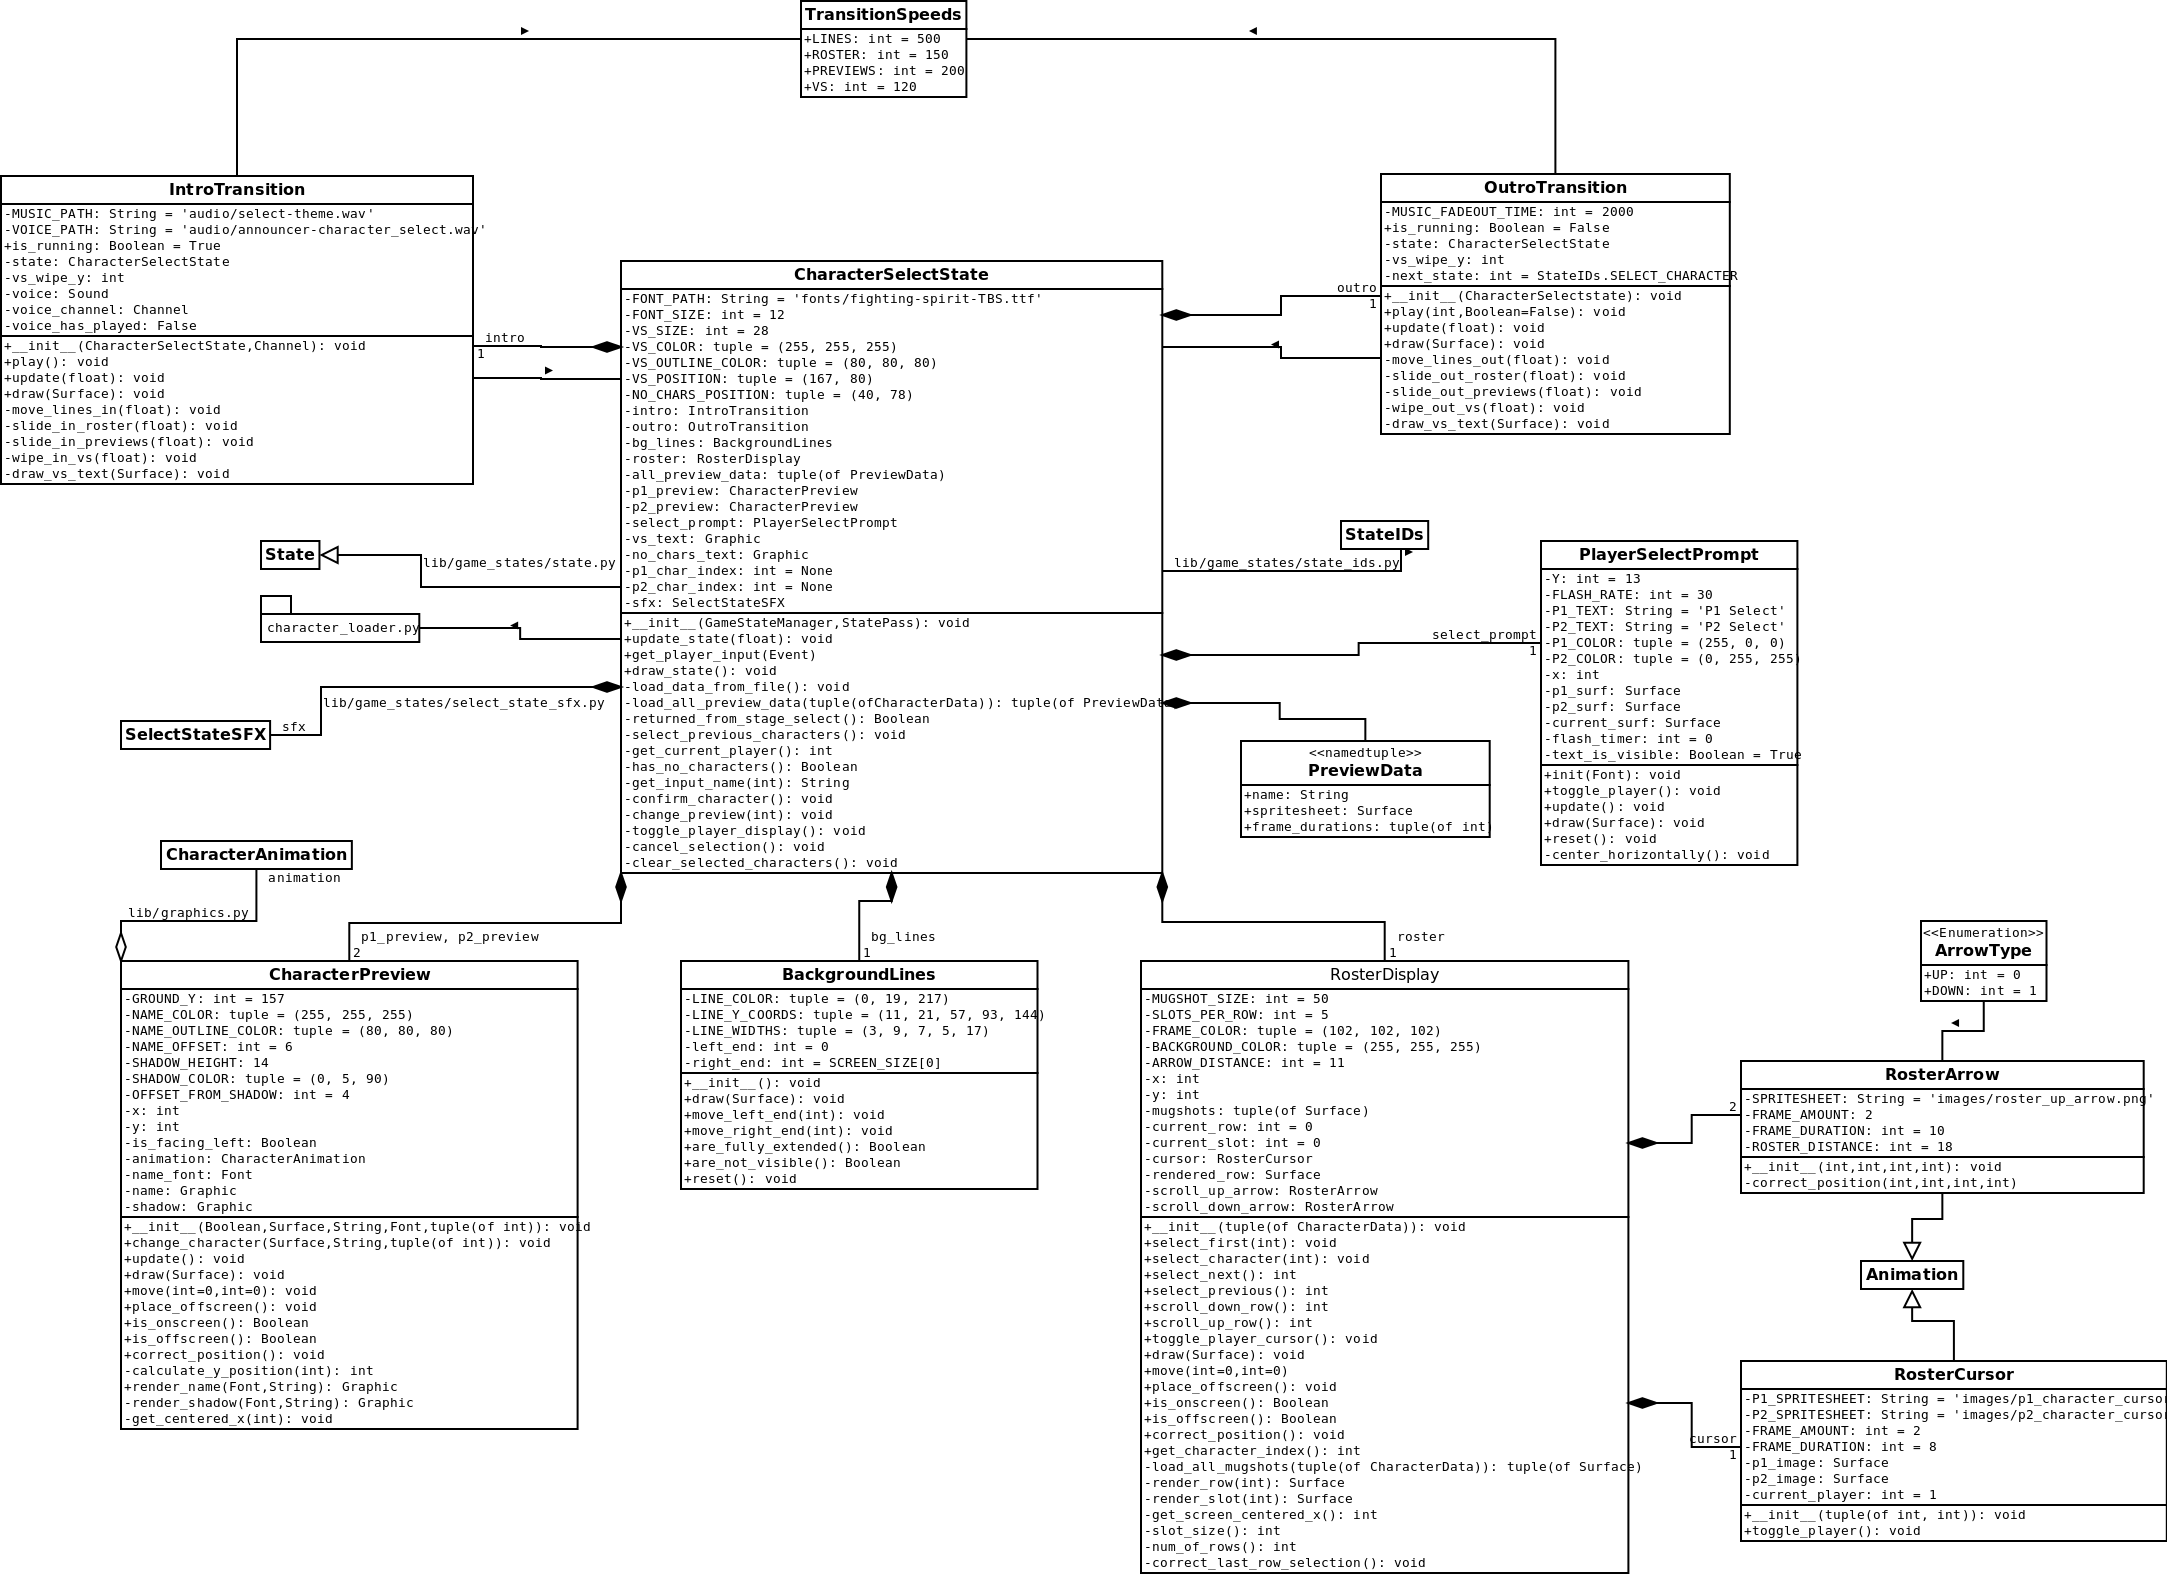
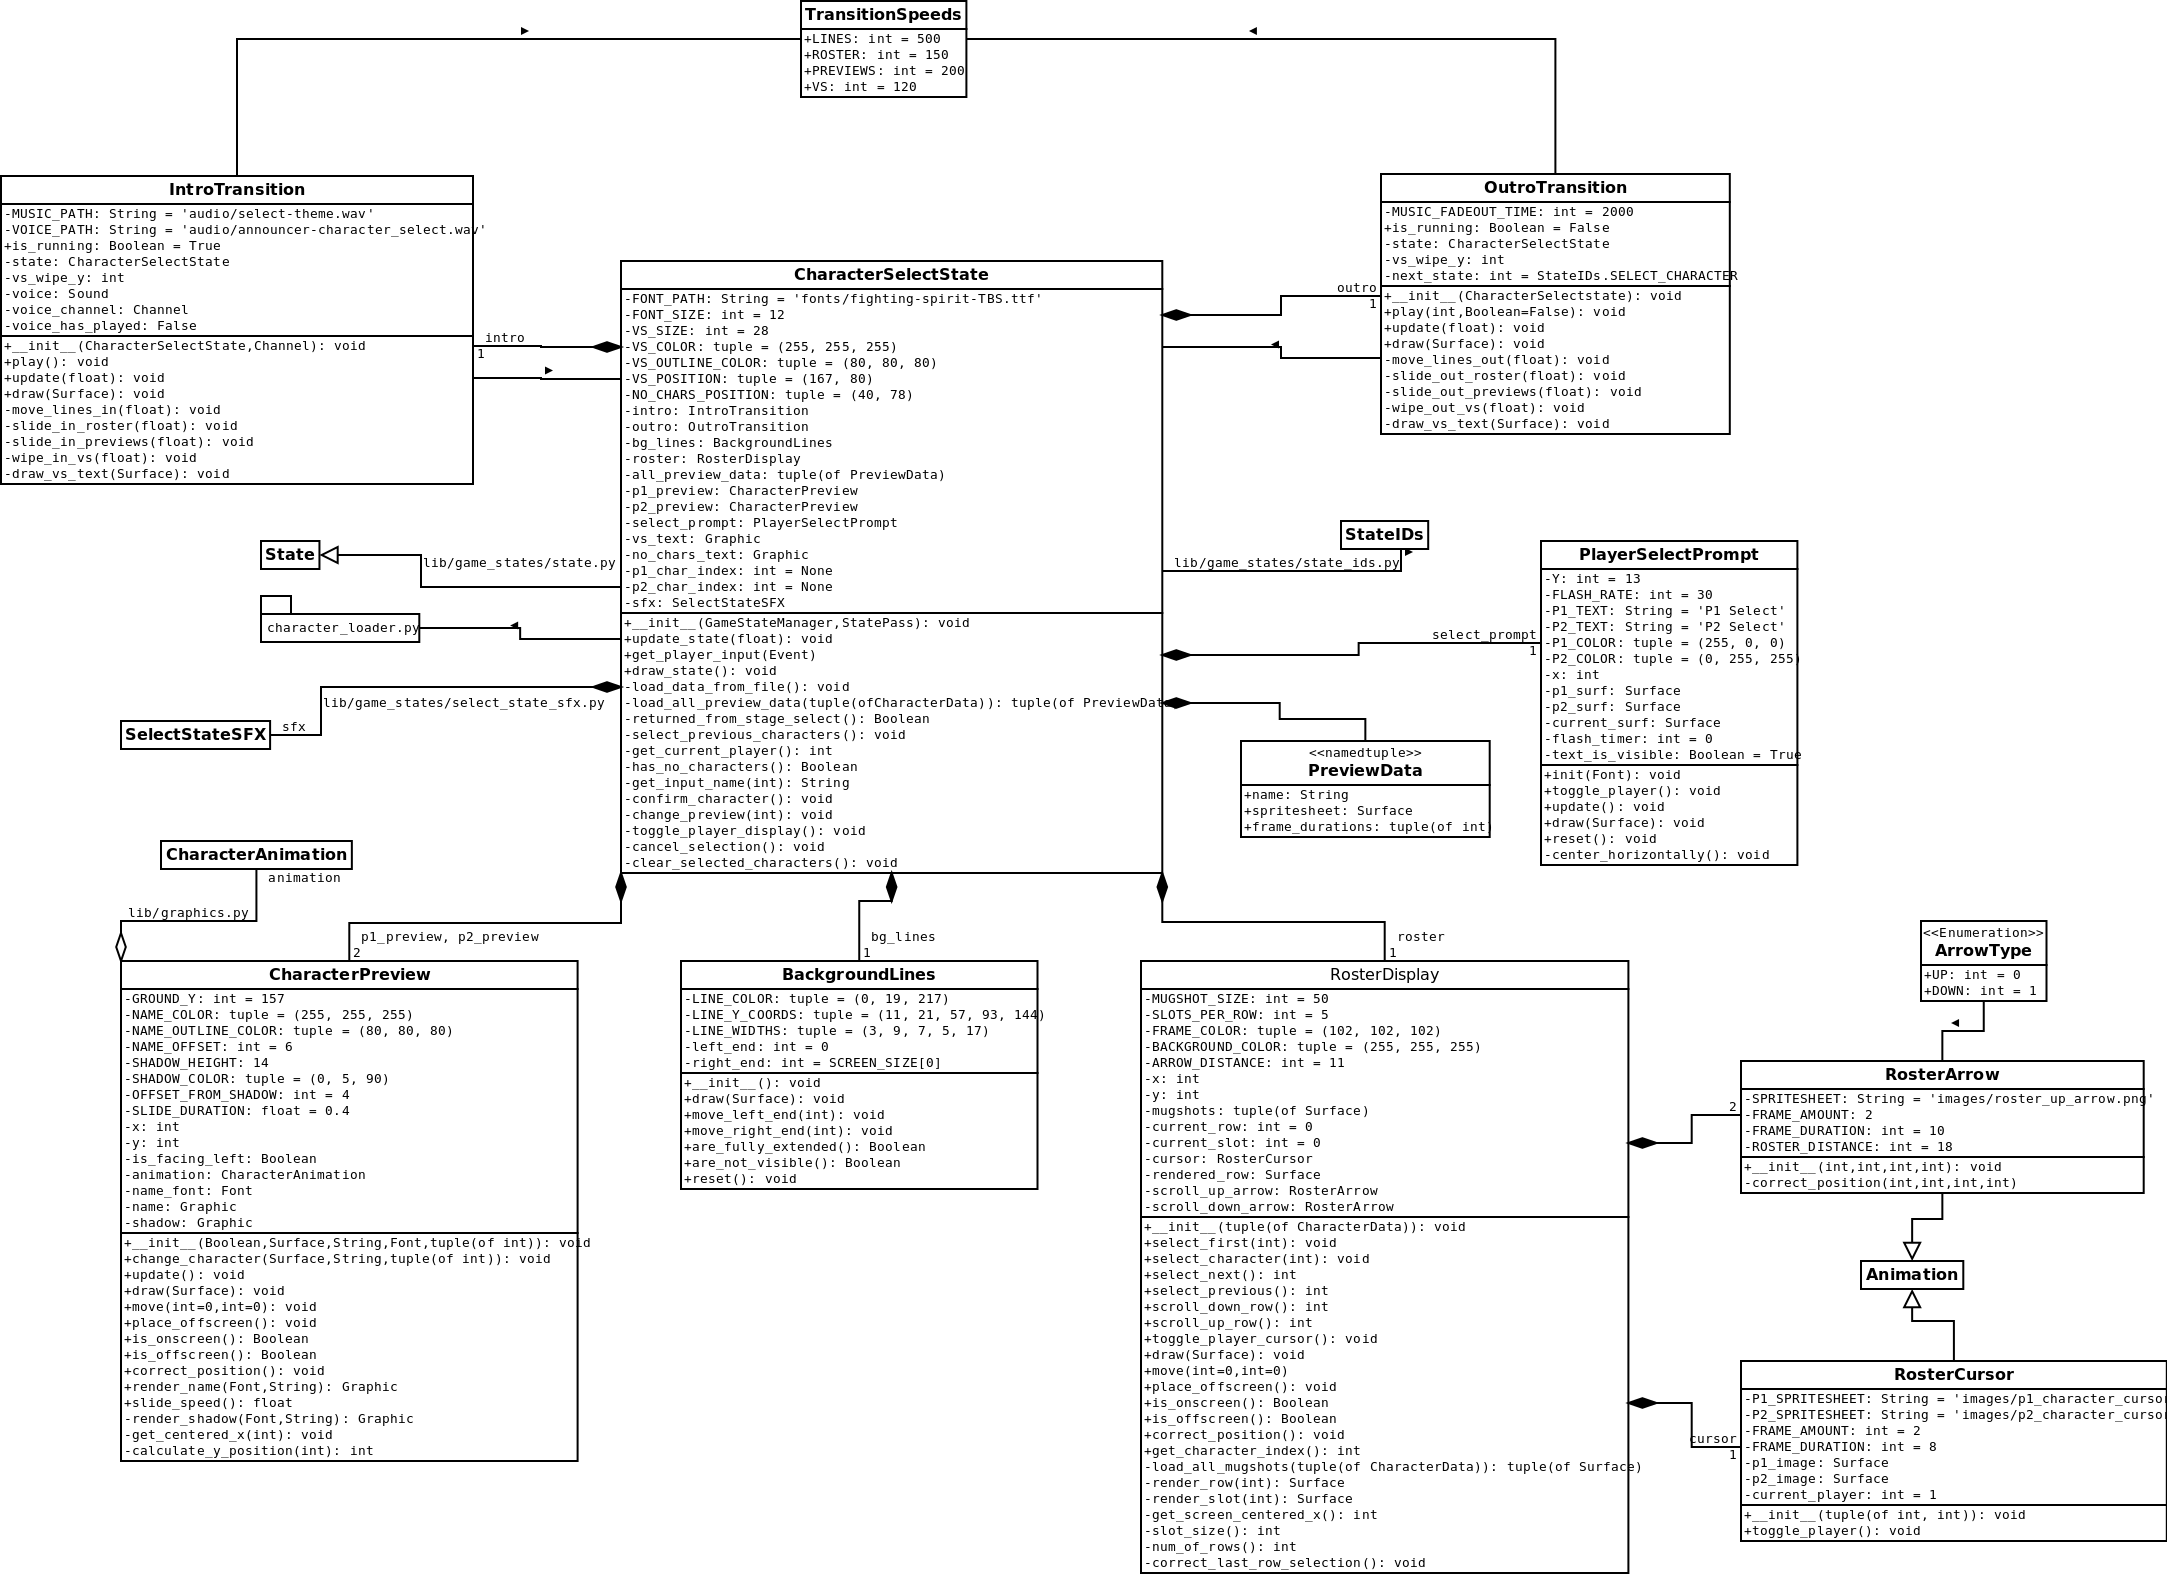
Calculate Preview slide speed from sprite width
Width-based speeds will allow character sprites of different sizes to
stop at the same time during the intro -- a suggestion proposed in issue

Changed region(s): [[0.0618, 0.6849, 0.2783, 0.9339]]

diff --git a/lib/game_states/character_select_state.py b/lib/game_states/character_select_state.py
@@ -1454,6 +1454,9 @@ class CharacterPreview(object):
         OFFSET_FROM_SHADOW: An integer for the distance, in pixels,
             from the bottom edge of the character sprite to the vertical
             center of the shadow.
+        SLIDE_DURATION: A float for the the time taken, in seconds,
+            to move this preview into position during transition
+            animations.
 
     Attributes:
         x: An integer for the x-coordinate of the sprite relative to the
@@ -1474,6 +1477,7 @@ class CharacterPreview(object):
     SHADOW_HEIGHT = 14
     SHADOW_COLOR = (0, 5, 90)
     OFFSET_FROM_SHADOW = 4
+    SLIDE_DURATION = 0.4
 
     def __init__(self, is_facing_left, spritesheet, name, name_font,
                  frame_durations):
@@ -1617,6 +1621,12 @@ class CharacterPreview(object):
         """
         surface_difference = self.animation.get_width() - width
         return self.x + int(surface_difference / 2)
+
+    def slide_speed(self):
+        """Return a float for the speed at which this preview will move
+        during transition animations.
+        """
+        return (float(self.animation.get_width()) / self.SLIDE_DURATION)
 
     def move(self, dx=0, dy=0):
         """Move the animation around the screen space.
